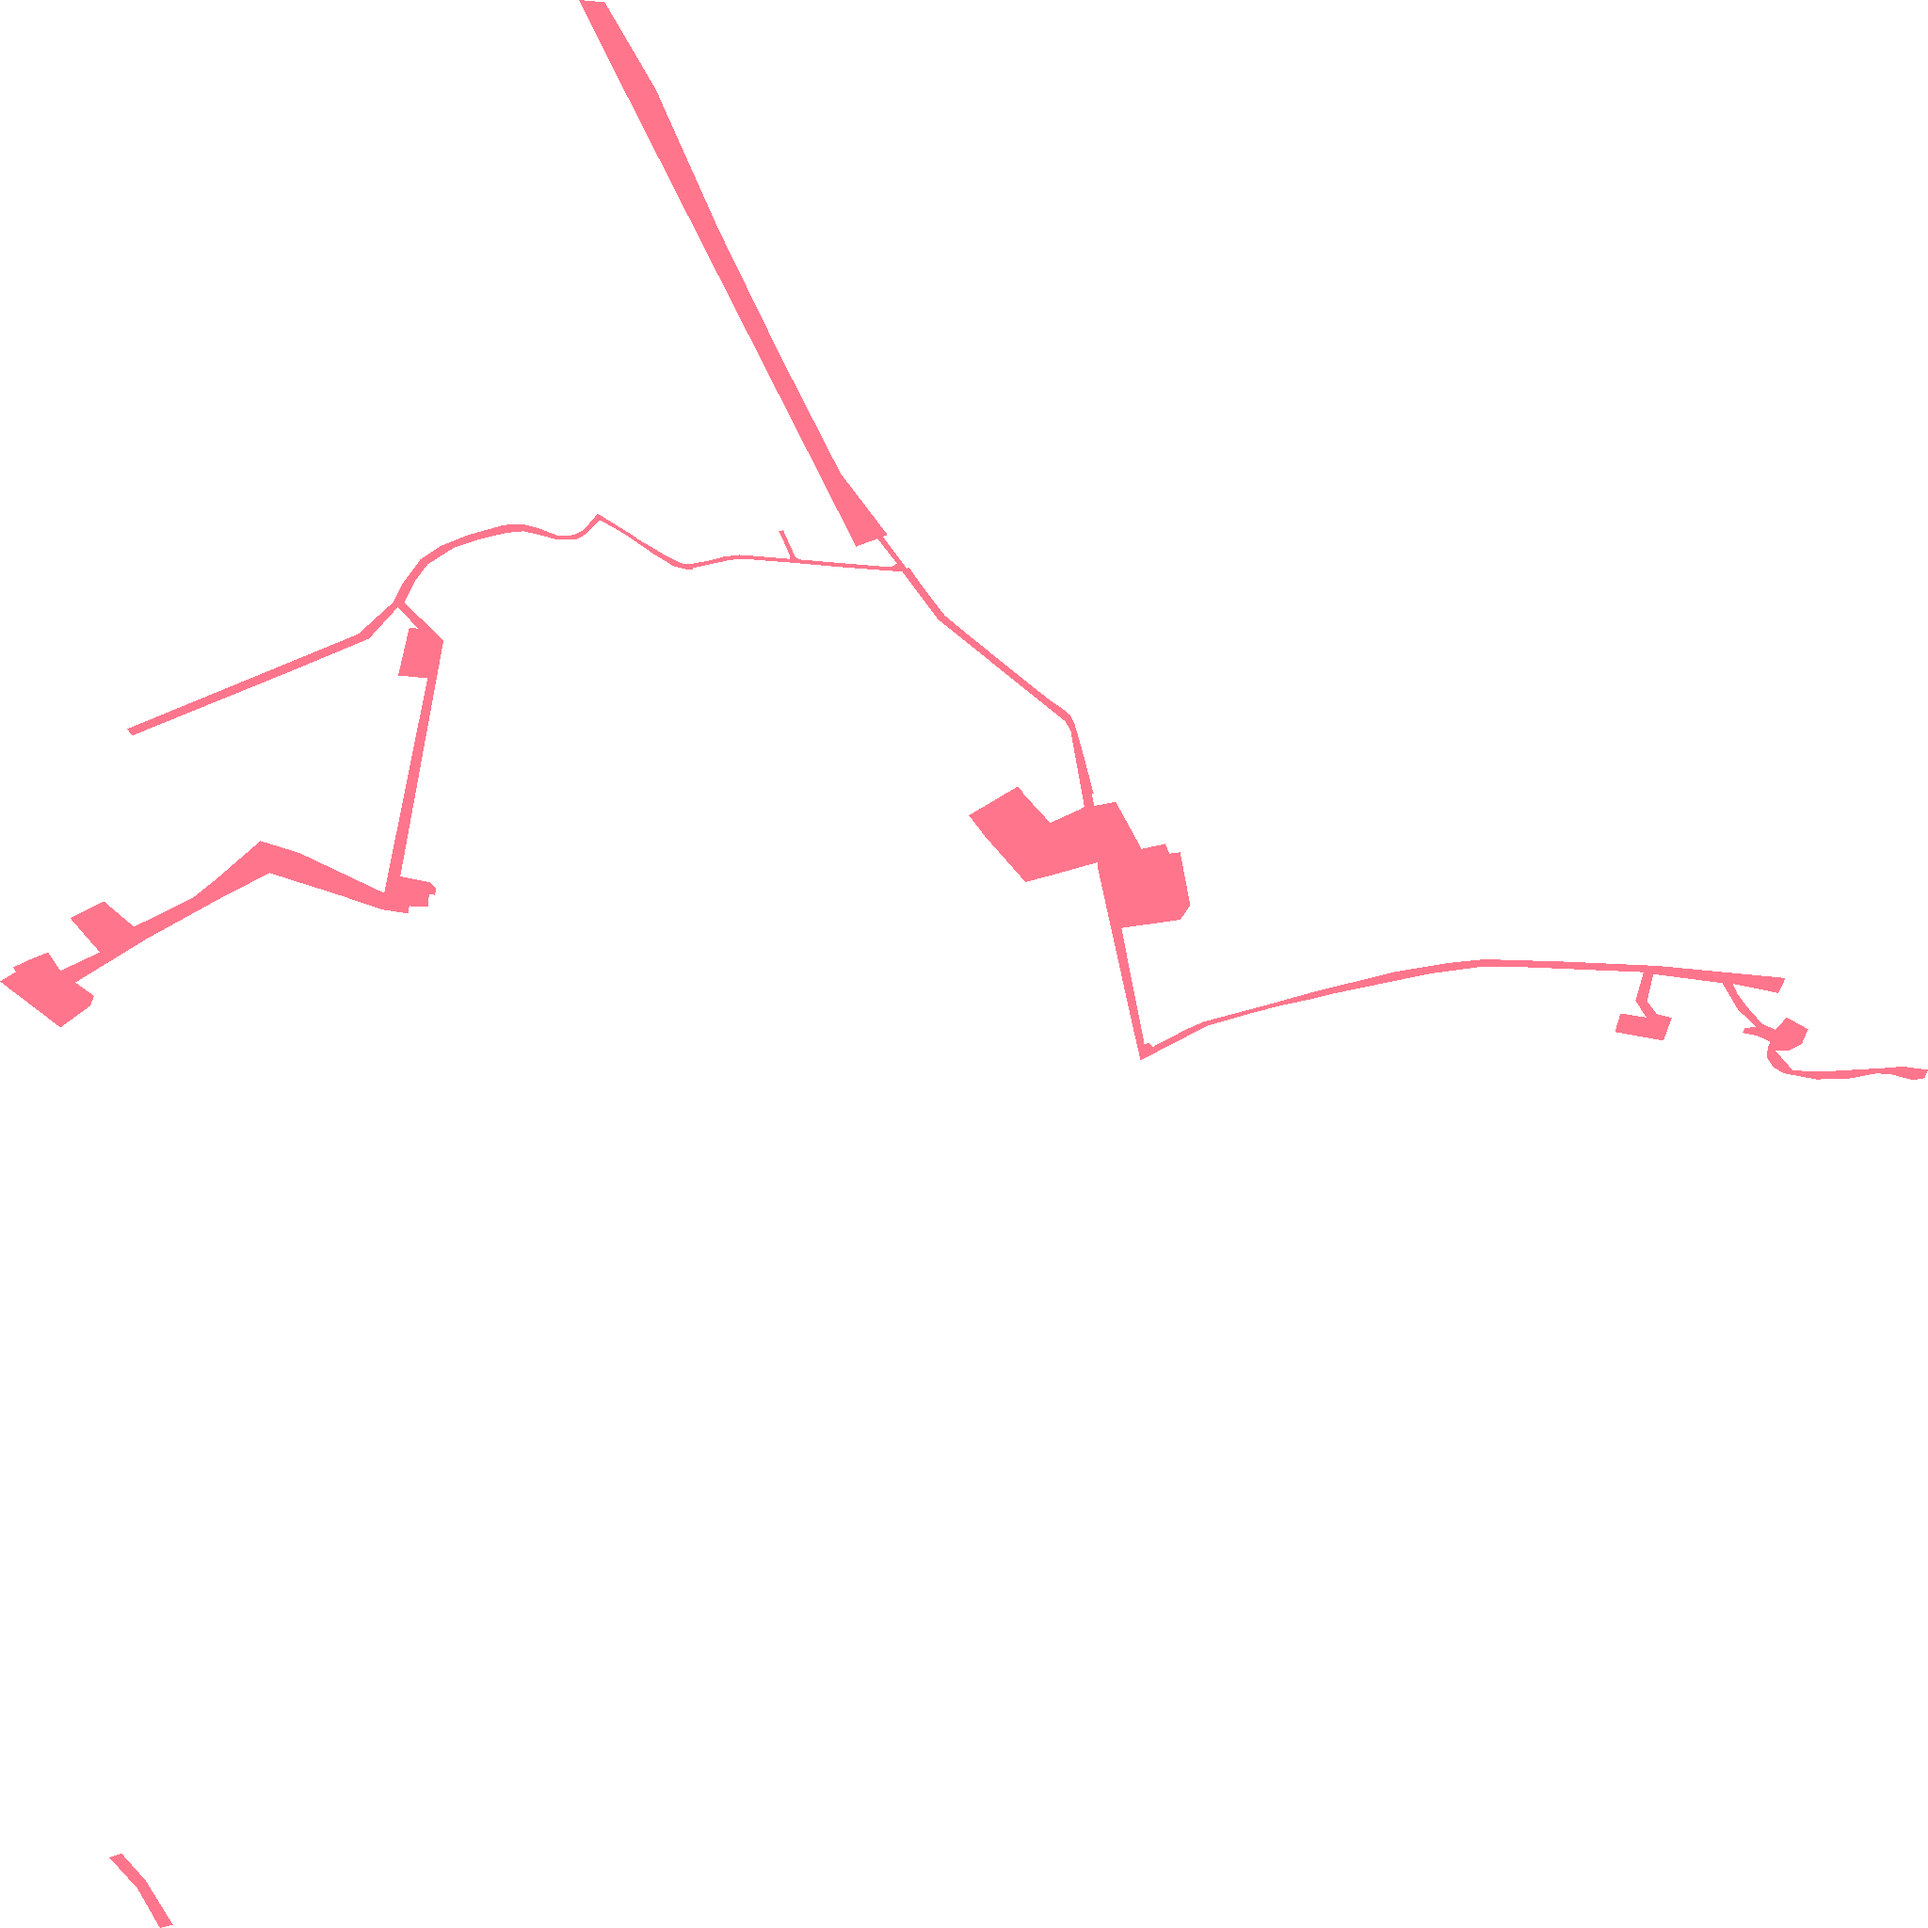
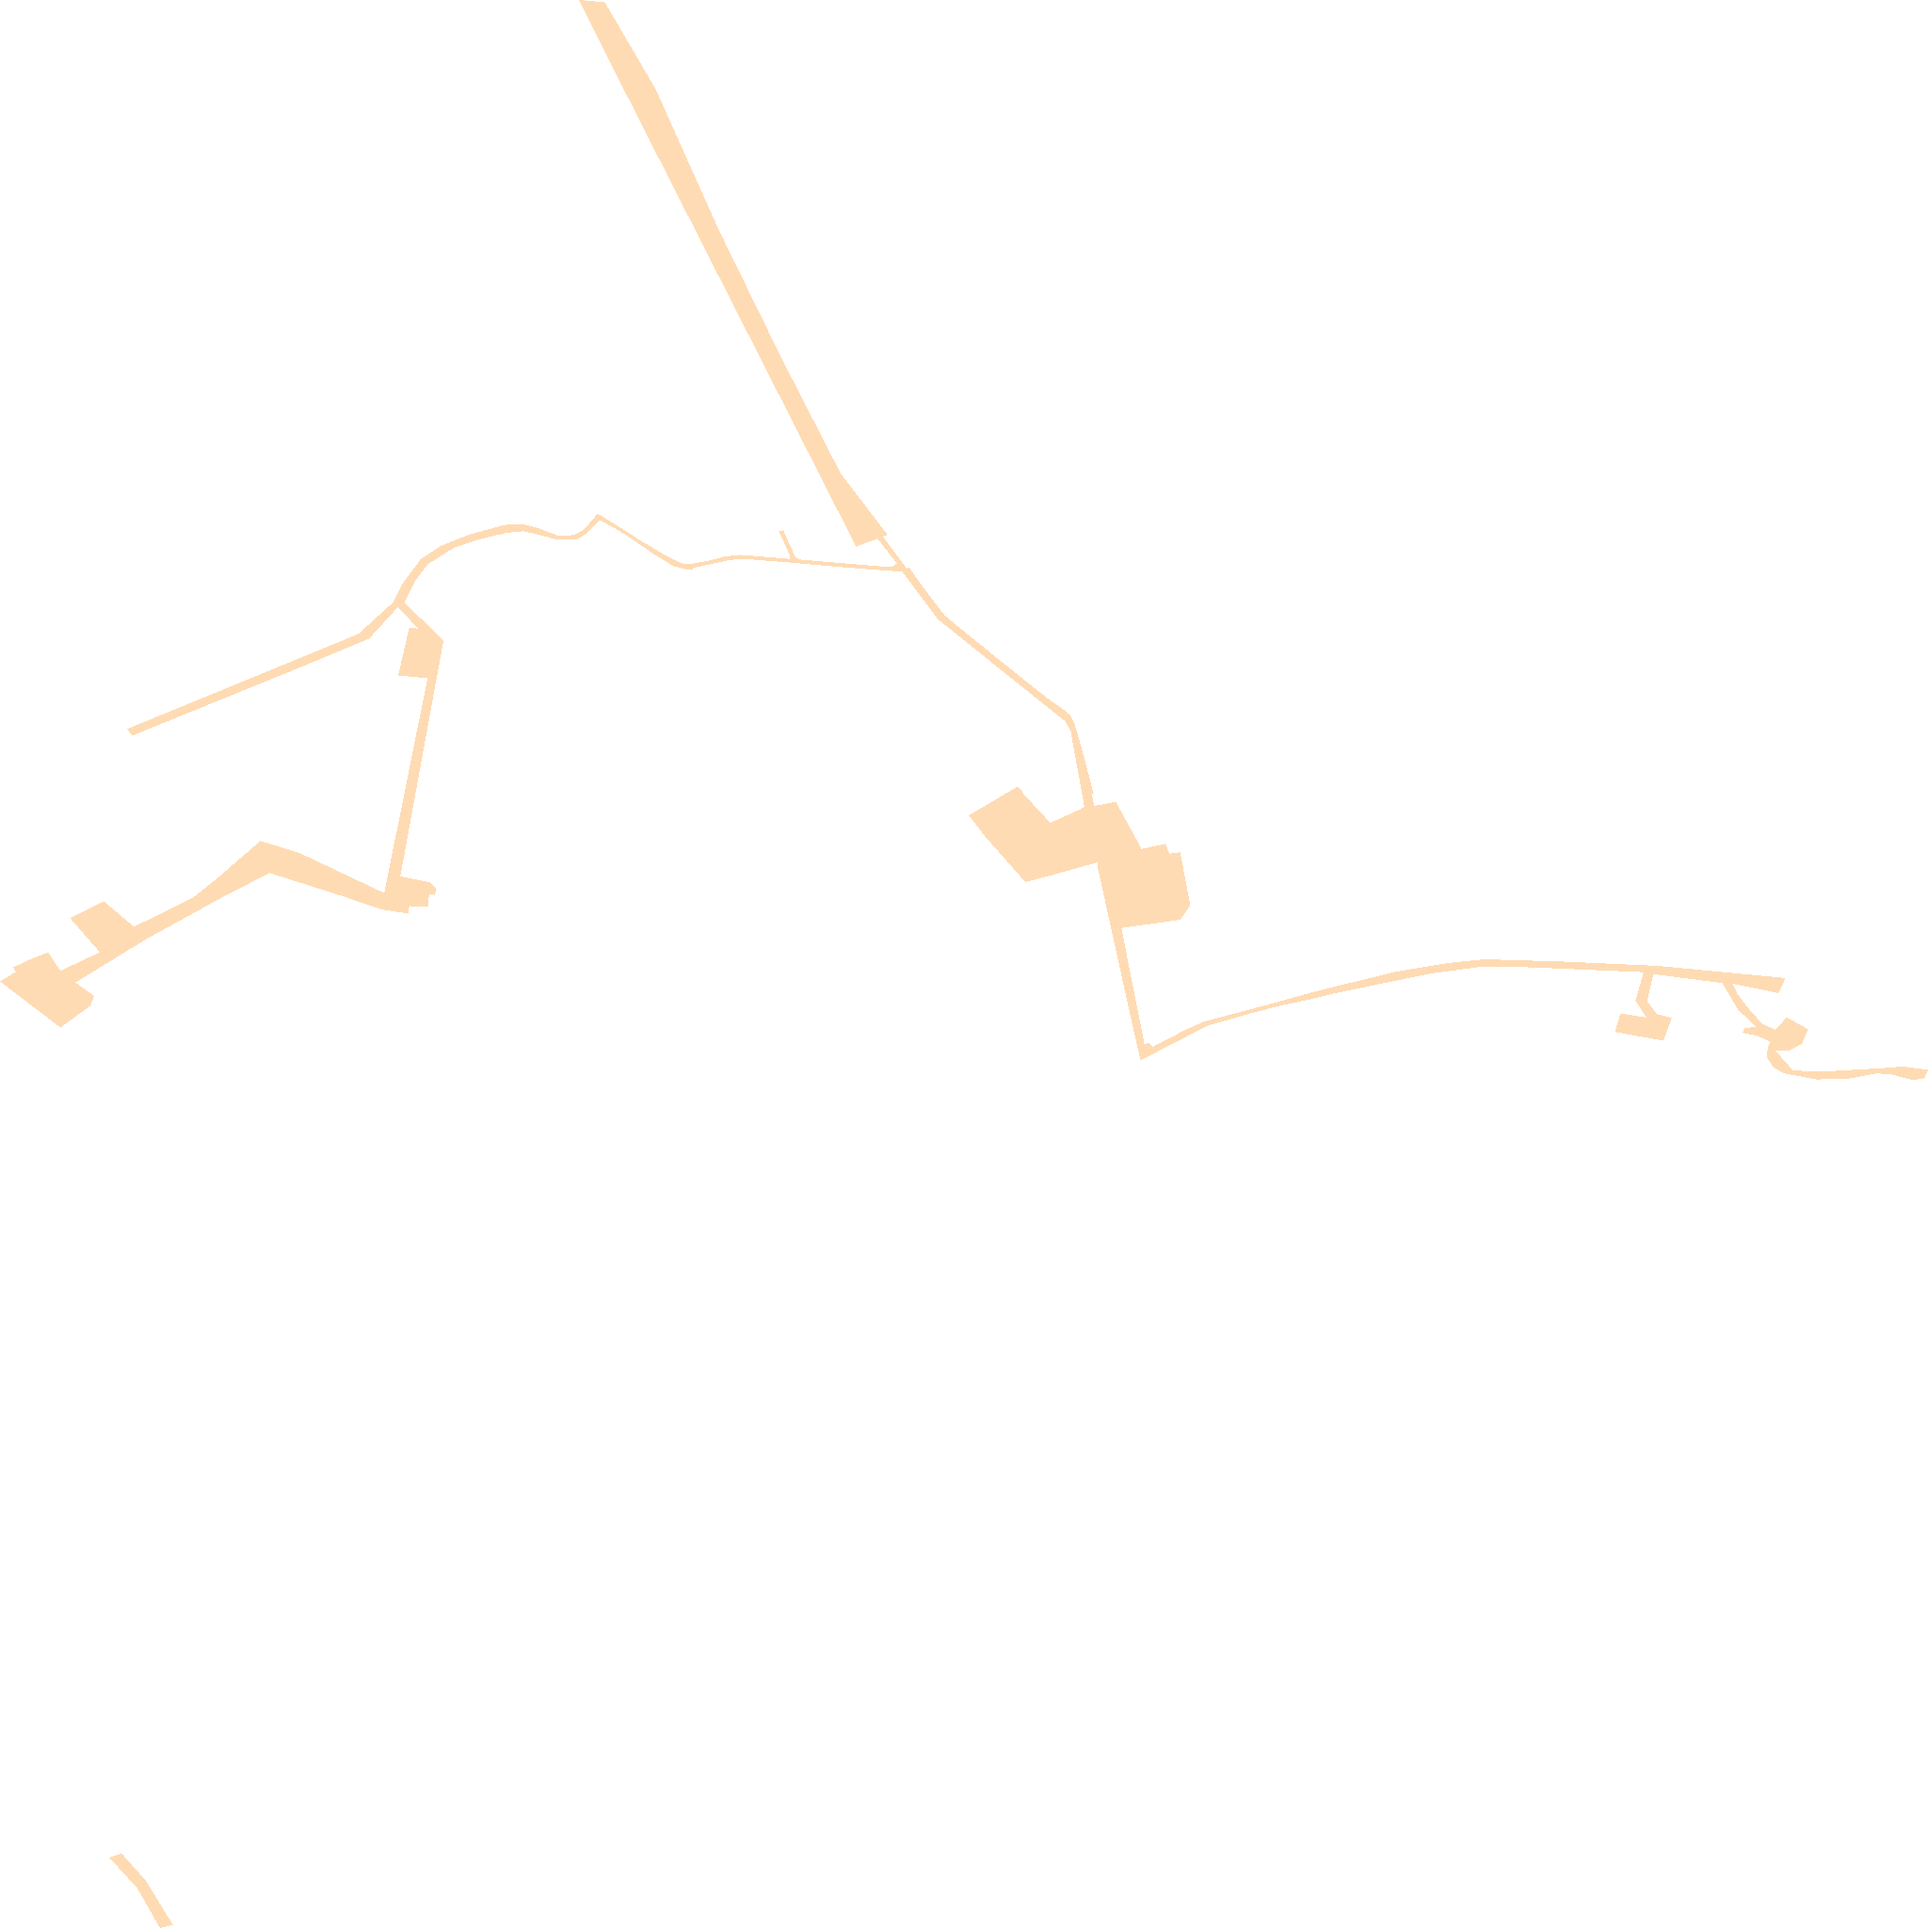
Karte sp_679

diff --git a/sp_679.html b/sp_679.html
@@ -60,7 +60,7 @@
         }
         .custom-control2 {
             position: absolute;
-            bottom: -320px;
+            top: 110px;
             left: 0px;
             background: white;
             padding: 5px;
@@ -77,24 +77,6 @@
         .custom-control:hover, .custom-control2:hover {
             background-color: #f0f0f0 !important;
         }
-        .leaflet-control-geocoder-icon {
-            background-color: white !important;
-            color: grey !important;
-            border: none !important;
-            width: 20px;
-            height: 20px;
-            display: flex;
-            justify-content: center;
-            align-items: center;
-            font-size: 15px;
-            font-family: 'Montserrat', sans-serif;
-            box-shadow: 0 1px 3px rgba(0, 0, 0, 0.3);
-            border-radius: 2px;
-            cursor: pointer;
-        }
-        .leaflet-control-geocoder-icon:hover {
-            background-color: #f0f0f0 !important;
-        }
         .custom-marker {
             width: 15px;
             height: 15px;
@@ -104,8 +86,8 @@
         }
         #legend {
             position: absolute;
-            bottom: 80px;
-            left: 55px;
+            top: 160px;
+            left: 10px;
             display: none;
             z-index: 1000;
             background: white;
@@ -128,8 +110,9 @@
 <body>
     <div id="map"></div>
     <div id="legend">
-        <div><span style="display:inline-block; width:20px; height:10px; background:#FF7F00; margin-right:5px;"></span>Ausbauphase 1: Ausbau bei ausreichender Nachfrage</div>
+        <div><span style="display:inline-block; width:20px; height:10px; background:#FF7F00; margin-right:5px;"></span>Ausbauphase 1: Glasfasernetz vorhanden oder geplant</div>
         <div><span style="display:inline-block;width:20px; height:10px; background:#00143C; margin-right:5px;"></span>Ausbauphase 2: Interessenbekundung möglich</div>
+        <div><span style="display:inline-block;width:20px; height:10px; background:#FFC17D; margin-right:5px;"></span>Ausbauphase 3: Gefördertes Ausbaugebiet </div>
     </div>
     <script>
     const bounds = [[50.489135712, 8.040755238], [50.523759224, 8.081660138]];
@@ -166,20 +149,6 @@
         });
         map.addControl(new legendControl());
         const markerLayerGroup = L.layerGroup().addTo(map);
-        const geocoder = L.Control.geocoder({
-            defaultMarkGeocode: false
-        })
-            .on('markgeocode', function (e) {
-                markerLayerGroup.clearLayers();
-                const latlng = e.geocode.center;
-                const customMarker = L.divIcon({
-                    className: 'custom-marker'
-                });
-                const marker = L.marker(latlng, { icon: customMarker });
-                markerLayerGroup.addLayer(marker);
-                map.fitBounds(bounds);
-            })
-            .addTo(map);
     </script>
 </body>
 </html>
